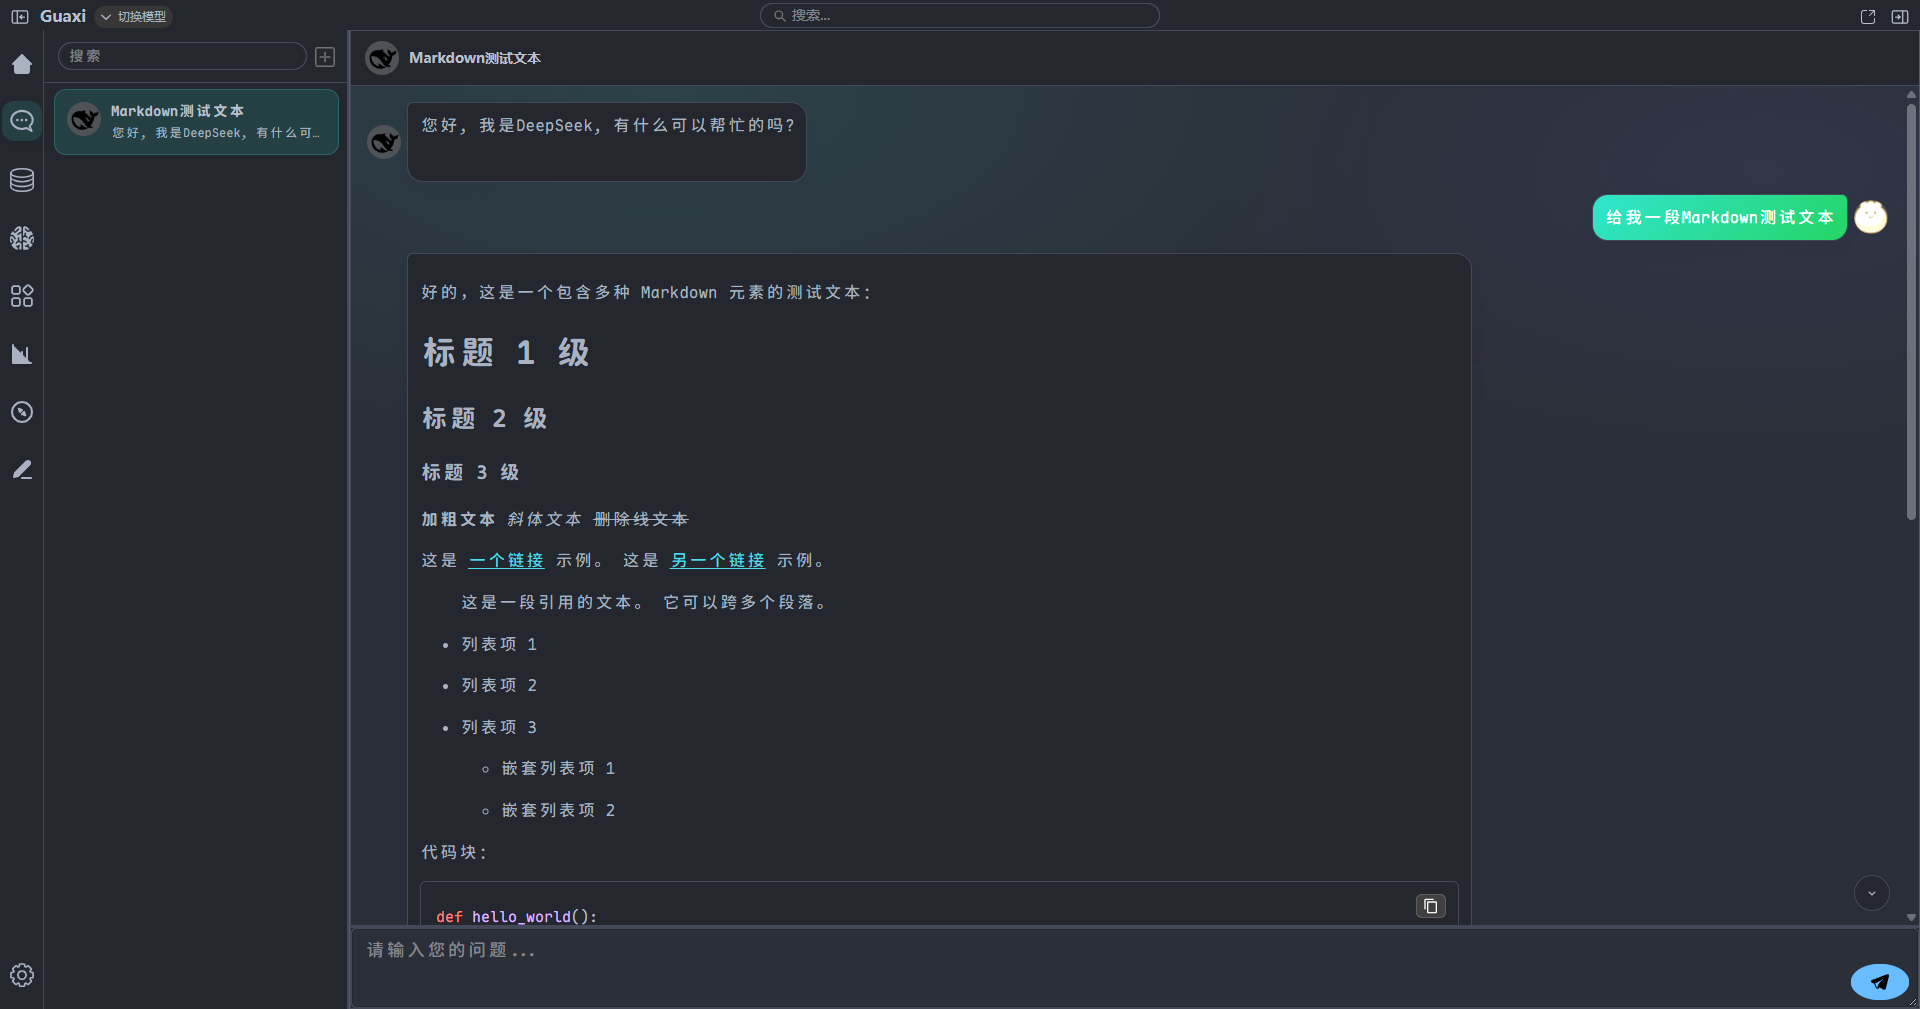
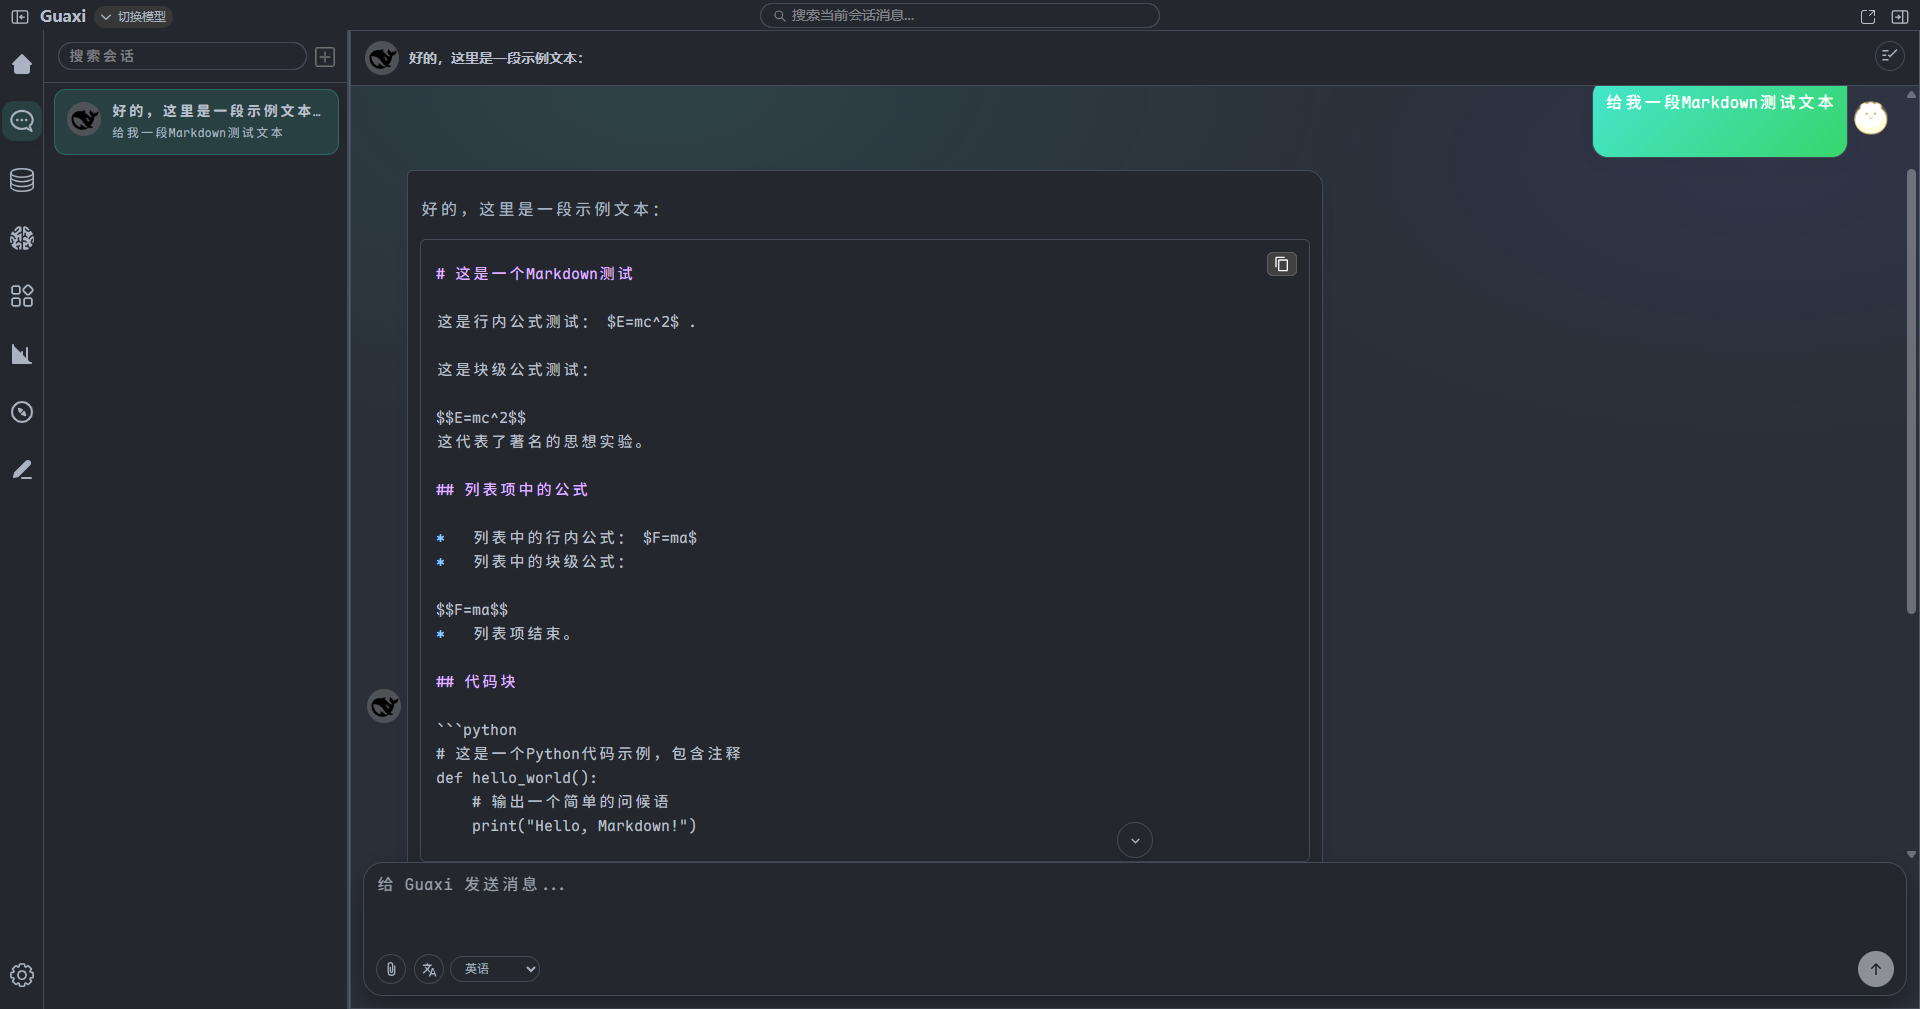
docs(manual): update user manual with chat features and local LLM setup
- add documentation for LocalDeepseek model configuration in settings
- document chat page features including session management, search,
  translation mode, attachment upload, and multi-select messages
- add icon descriptions for chat interface elements and input area
- include behavior explanations for session titles and editor integration
- add new screenshots for chat interface and local LLM settings
- update import statements with new icon components

diff --git a/src/components/SettingViewComponent/GuaxiManual.vue b/src/components/SettingViewComponent/GuaxiManual.vue
@@ -91,6 +91,9 @@
               若需要 Markdown 转换能力（模型/运行环境），在 <n-tag size="small">设置</n-tag> → <n-tag size="small">大模型</n-tag> 中安装：
               <b>Markdown 转换模型</b>（解压到 utils/Models/surya_models）与 <b>模型运行环境</b>（拷贝到 utils/MarkdownConvertor）。
             </li>
+            <li>
+              如需本地模型（LocalDeepseek），在 <n-tag size="small">设置</n-tag> → <n-tag size="small">大模型</n-tag> 中点击“下载/导入”下载或者导入对应的本地大模型。
+            </li>
           </ol>
 
           <div class="figure">
@@ -769,9 +772,111 @@
           <div id="chat" class="page-section">
             <div class="page-title">聊天（Chat）</div>
             <div class="page-desc">
-              聊天页面用于与大模型对话。顶部包含模型选择器与搜索占位输入框，并提供打开 Web 模型、侧栏折叠等入口。
-              中间区域为消息流与输入区，通常支持多会话/多话题管理（以当前界面为准）。
+              聊天页面用于与大模型对话。支持会话管理、会话内消息搜索、翻译模式、附件上传、多选消息发送到编辑器等能力。
+              输入区已与消息区视觉融合，滚动不在底部时会显示“回到底部”按钮；切换页面后返回聊天页，会继续渲染当前会话消息流。
             </div>
+            <div class="manual-subtitle">聊天页顶部与会话列表</div>
+            <div class="icon-block">
+              <div class="icon-row">
+                <div class="icon-inline"><n-icon :component="SearchOutline" /></div>
+                <div class="icon-name">搜索会话</div>
+                <div class="icon-desc">左侧会话列表顶部输入框，可按会话标题、首条用户消息或会话消息内容过滤。</div>
+              </div>
+              <div class="icon-row">
+                <div class="icon-inline">
+                  <n-icon>
+                    <svg viewBox="0 0 24 24" width="18" height="18" xmlns="http://www.w3.org/2000/svg">
+                      <path d="M19 11h-6V5h-2v6H5v2h6v6h2v-6h6z" fill="currentColor" />
+                    </svg>
+                  </n-icon>
+                </div>
+                <div class="icon-name">新建会话</div>
+                <div class="icon-desc">在会话列表创建新会话（鼠标悬停提示“新建会话”）。</div>
+              </div>
+              <div class="icon-row">
+                <div class="icon-inline"><n-icon :component="SearchOutline" /></div>
+                <div class="icon-name">搜索当前会话消息</div>
+                <div class="icon-desc">聊天页顶部搜索框，按关键字过滤当前会话消息（匹配原始 Markdown 与渲染文本）。</div>
+              </div>
+              <div class="icon-row">
+                <div class="icon-inline"><n-icon :component="OpenOutline" /></div>
+                <div class="icon-name">打开网页模型窗口</div>
+                <div class="icon-desc">当模型为网页模式（如元宝/ChatGPT 网页）时，可快速打开对应网页窗口。</div>
+              </div>
+            </div>
+
+            <div class="manual-subtitle">消息区操作图标</div>
+            <div class="icon-block">
+              <div class="icon-row">
+                <div class="icon-inline">
+                  <n-icon>
+                    <svg viewBox="0 0 24 24" width="18" height="18" xmlns="http://www.w3.org/2000/svg">
+                      <path d="M9 11l3 3L22 4l-1.4-1.4L12 11.2 10.4 9.6zM2 6h8V4H2zm0 6h5v-2H2zm0 6h8v-2H2z" fill="currentColor" />
+                    </svg>
+                  </n-icon>
+                </div>
+                <div class="icon-name">多选模式</div>
+                <div class="icon-desc">位于聊天标题栏右侧；进入后可勾选多条消息，并执行“全选可见 / 清空 / 发送到编辑器”。</div>
+              </div>
+              <div class="icon-row">
+                <div class="icon-inline"><n-icon :component="CopyOutline" /></div>
+                <div class="icon-name">复制消息</div>
+                <div class="icon-desc">用户消息和模型消息均支持复制；模型消息复制优先返回原始 Markdown 内容。</div>
+              </div>
+              <div class="icon-row">
+                <div class="icon-inline"><n-icon :component="ShareSocialOutline" /></div>
+                <div class="icon-name">分享（模型消息）</div>
+                <div class="icon-desc">分享当前模型回复内容。</div>
+              </div>
+              <div class="icon-row">
+                <div class="icon-inline"><n-icon :component="RefreshOutline" /></div>
+                <div class="icon-name">重新生成（模型消息）</div>
+                <div class="icon-desc">以当前上下文重新请求大模型生成回复。</div>
+              </div>
+              <div class="icon-row">
+                <div class="icon-inline"><n-icon :component="ChevronDownOutline" /></div>
+                <div class="icon-name">回到底部</div>
+                <div class="icon-desc">当未停留在最新消息底部时显示，位于输入框上方中间；点击快速跳转到最后一条消息。</div>
+              </div>
+            </div>
+
+            <div class="manual-subtitle">输入区图标与模式</div>
+            <div class="icon-block">
+              <div class="icon-row">
+                <div class="icon-inline">
+                  <n-icon>
+                    <svg viewBox="0 0 24 24" width="18" height="18" xmlns="http://www.w3.org/2000/svg">
+                      <path d="M17.5 6.5v9a5.5 5.5 0 0 1-11 0v-10a4 4 0 0 1 8 0v9a2.5 2.5 0 1 1-5 0V8h1.8v6.5a.7.7 0 1 0 1.4 0v-9a2.2 2.2 0 0 0-4.4 0v10a3.7 3.7 0 0 0 7.4 0v-9h1.8z" fill="currentColor" />
+                    </svg>
+                  </n-icon>
+                </div>
+                <div class="icon-name">添加附件</div>
+                <div class="icon-desc">为当前提问附加文件路径；已选附件会显示在输入框上方，可单独移除。</div>
+              </div>
+              <div class="icon-row">
+                <div class="icon-inline"><n-icon :component="LanguageOutline" /></div>
+                <div class="icon-name">翻译模式</div>
+                <div class="icon-desc">点击进入/退出翻译模式（图标高亮表示已开启）。开启后发送按钮仍用于发送消息，但模型将按目标语言返回译文。</div>
+              </div>
+              <div class="icon-row">
+                <div class="icon-inline">
+                  <n-icon>
+                    <svg viewBox="0 0 24 24" width="18" height="18" xmlns="http://www.w3.org/2000/svg">
+                      <path d="M12 4l-7 7 1.4 1.4 4.6-4.6V20h2V7.8l4.6 4.6L19 11z" fill="currentColor" />
+                    </svg>
+                  </n-icon>
+                </div>
+                <div class="icon-name">发送</div>
+                <div class="icon-desc">发送输入内容；输入框默认至少显示三行高度，支持 Shift+Enter 换行。</div>
+              </div>
+            </div>
+
+            <div class="manual-subtitle">会话行为说明</div>
+            <ul class="manual-ul">
+              <li>会话标题会在回复后自动生成摘要标题；你也可以在聊天标题处双击手动重命名并锁定标题。</li>
+              <li>左侧会话列表的小字预览优先显示该会话首条用户消息，而非模型欢迎语。</li>
+              <li>“发送到编辑器”会把多选消息写入首页当前激活标签文件的光标位置。</li>
+            </ul>
             <div class="figure">
               <div class="figure-box">
                 <img class="figure-img" :src="manualImage('page-chat')" alt="聊天页面与模型选择" />
@@ -985,6 +1090,21 @@
             </div>
             <div class="figure-caption">图 10：大模型与转换配置</div>
           </div>
+
+          <h3 class="h3">本地模型（LocalDeepseek）</h3>
+          <p class="p">
+            本地模型用于离线或内网环境下的推理场景，在同一页面可完成下载、导入与状态检查。
+          </p>
+          <ul class="manual-ul">
+            <li>下载：点击“下载”获取模型文件，完成后状态显示已安装。</li>
+            <li>导入：已有模型包时点击“导入”并选择本地文件。</li>
+          </ul>
+          <div class="figure">
+            <div class="figure-box">
+              <img class="figure-img" :src="manualImage('setting-local-llm')" alt="本地模型配置" />
+            </div>
+            <div class="figure-caption">图 11：本地模型配置</div>
+          </div>
         </section>
 
         <n-divider />
@@ -1045,8 +1165,10 @@ import {
   ArrowBackOutline,
   ArrowForwardOutline,
   BookmarksOutline,
+  ChevronDownOutline,
   CloseOutline,
   CompassOutline,
+  CopyOutline,
   DocumentTextOutline,
   ExitOutline,
   ExpandOutline,
@@ -1058,11 +1180,13 @@ import {
   LogoVimeo,
   MoonOutline,
   NewspaperOutline,
+  OpenOutline,
   OptionsOutline,
   RefreshOutline,
   RemoveOutline,
   SaveOutline,
   SearchOutline,
+  ShareSocialOutline,
   SparklesOutline,
   SpeedometerOutline,
   SyncOutline,
@@ -1177,6 +1301,10 @@ const manualImages = {
   'setting-llm': {
     light: new URL('../../assets/manual/setting-llm.png', import.meta.url).href,
     dark: new URL('../../assets/manual/setting-llm-dark.png', import.meta.url).href
+  },
+  'setting-local-llm': {
+    light: new URL('../../assets/manual/setting-local-llm-light.png', import.meta.url).href,
+    dark: new URL('../../assets/manual/setting-local-llm-dark.png', import.meta.url).href
   }
 }
 
